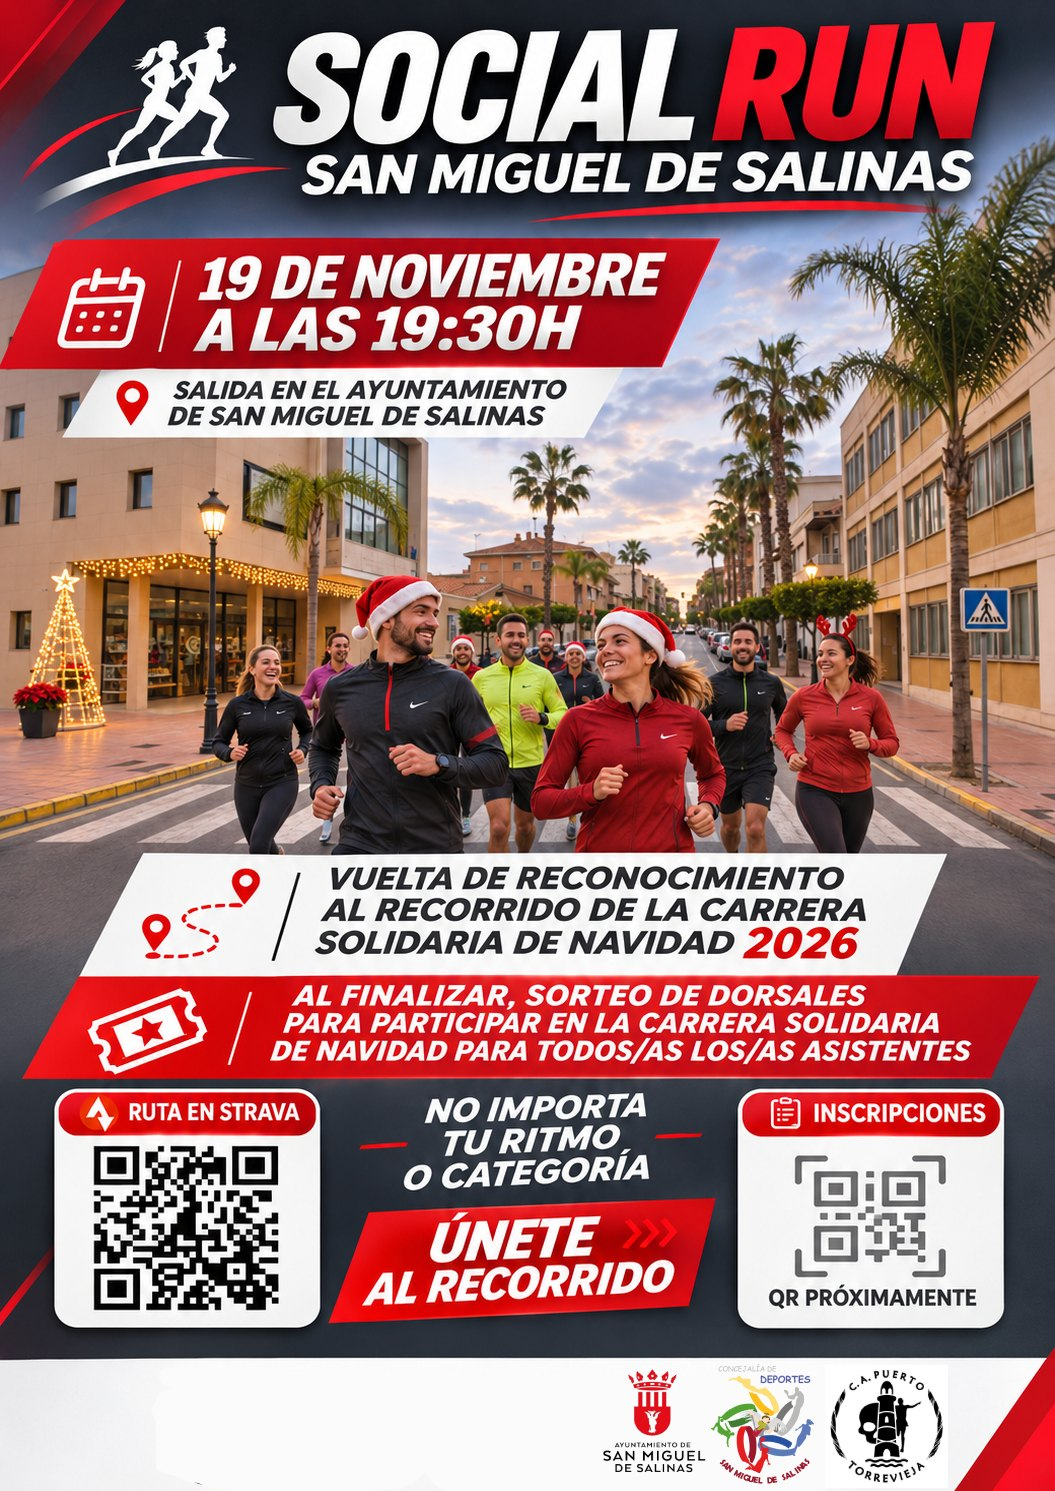
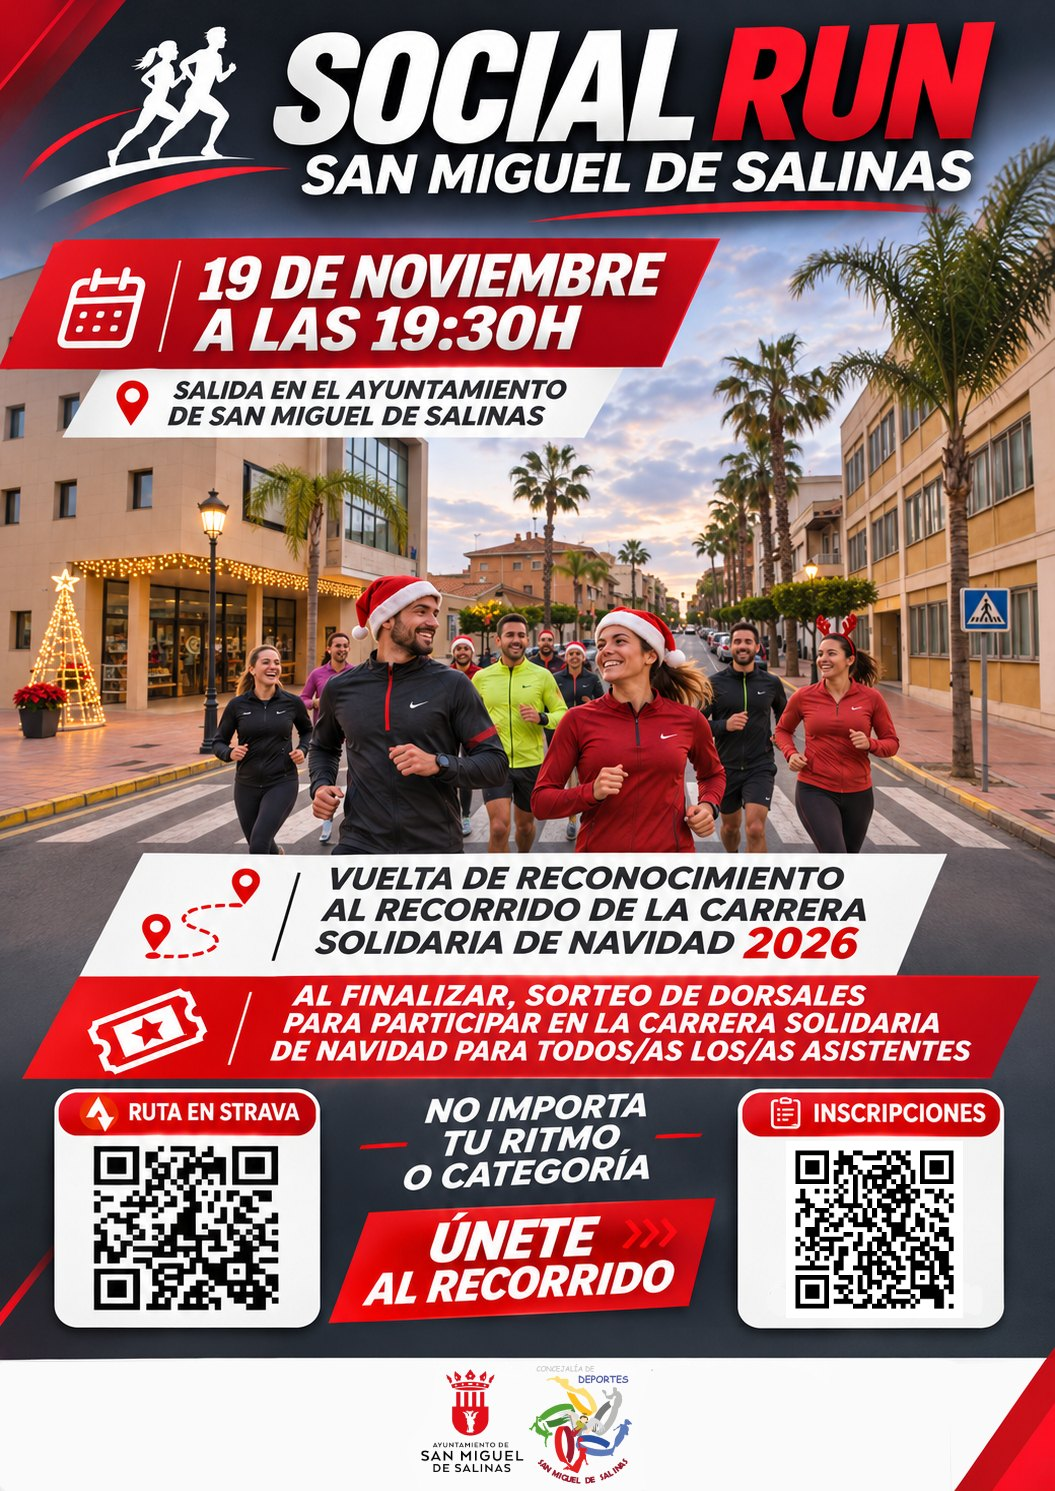
Add files via upload

Changed region(s): [[0.3943, 0.8947, 0.91, 1.0], [0.728, 0.7713, 0.9403, 0.8947]]

diff --git a/index.html b/index.html
@@ -263,6 +263,17 @@ details.rgpd p{margin:.5rem 0 0}
 .compartir{display:flex;flex-wrap:wrap;gap:1rem;margin-top:1.5rem}
 .btn-wa{background:#25D366;color:#0B3B1F;box-shadow:0 6px 0 #179247}
 
+/* Contacto */
+.contacto{background:var(--asfalto);padding:clamp(2.5rem,6vw,3.5rem) 0;border-top:1px solid var(--linea)}
+.contacto-in{display:grid;grid-template-columns:1fr auto;gap:1.5rem 3rem;align-items:center}
+.contacto-in > *{min-width:0}
+.contacto h2{font-size:clamp(2.2rem,5.5vw,3.4rem);margin-bottom:.5rem}
+.contacto p{margin:0;color:#D5D7E6;max-width:32em}
+.contacto-dato{display:flex;flex-direction:column;align-items:flex-start;gap:.3rem}
+.contacto-dato > span{color:var(--niebla);font-weight:600}
+.contacto-dato .tel{font-family:var(--display);font-style:italic;font-weight:800;font-size:clamp(2.2rem,6vw,3rem);line-height:1;text-decoration:none;margin-bottom:.8rem;font-variant-numeric:tabular-nums}
+@media (max-width:760px){.contacto-in{grid-template-columns:1fr}}
+
 /* Organizan */
 .org{background:#fff;color:var(--noche);padding:3rem 0}
 .org h2{font-family:var(--display);font-style:italic;font-weight:800;font-size:1.6rem;text-transform:uppercase;margin:0 0 1.6rem;text-align:center}
@@ -394,7 +405,7 @@ footer a{color:var(--nieve)}
       <p class="sec-intro">Una hora larga entre amigos, vecinos y gente que acabas de conocer.</p>
       <ol class="tiempo">
         <li><span class="h">19:15</span><span class="pt" aria-hidden="true"></span><h3>Llegada</h3><p>Nos vemos en la puerta del Ayuntamiento. Calentamos juntos y nos repartimos por ritmos.</p></li>
-        <li><span class="h">19:30</span><span class="pt" aria-hidden="true"></span><h3>Salida</h3><p>Salimos todos a la vez. Cada grupo con su ritmo, con gente del C.A. Puerto Torrevieja acompañando.</p></li>
+        <li><span class="h">19:30</span><span class="pt" aria-hidden="true"></span><h3>Salida</h3><p>Salimos todos a la vez y cada grupo va a su ritmo, siempre acompañado.</p></li>
         <li><span class="h">En ruta</span><span class="pt" aria-hidden="true"></span><h3>El recorrido</h3><p>Conocemos las calles por las que pasará la Carrera Solidaria de Navidad del 20 de diciembre.</p></li>
         <li><span class="h">Meta</span><span class="pt" aria-hidden="true"></span><h3>Sorteo</h3><p>Al terminar sorteamos 10 dorsales para la carrera o la marcha entre los inscritos que hayan participado.</p></li>
       </ol>
@@ -522,13 +533,26 @@ footer a{color:var(--nieve)}
     </div>
   </section>
 
+  <section class="contacto" aria-labelledby="contacto-t">
+    <div class="wrap contacto-in">
+      <div>
+        <h2 class="dsp" id="contacto-t">¿Tienes dudas?</h2>
+        <p>Escríbenos y te contamos todo lo que necesites sobre la Social Run.</p>
+      </div>
+      <div class="contacto-dato">
+        <span>Área de Deportes Municipal</span>
+        <a class="tel" href="tel:+34673501180">673 501 180</a>
+        <a class="btn btn-wa" href="https://wa.me/34673501180?text=Hola%2C%20quer%C3%ADa%20informaci%C3%B3n%20sobre%20la%20Social%20Run%20San%20Miguel%20de%20Salinas" target="_blank" rel="noopener"><svg aria-hidden="true"><use href="#i-wa"/></svg><span>Escribir por WhatsApp</span></a>
+      </div>
+    </div>
+  </section>
+
   <section class="org" aria-labelledby="org-t">
     <div class="wrap">
       <h2 id="org-t">Organizan</h2>
       <div class="logos">
         <figure><img src="assets/logo-ayuntamiento.png" alt="Ayuntamiento de San Miguel de Salinas"><figcaption>Ayuntamiento de San Miguel de Salinas</figcaption></figure>
         <figure><img src="assets/logo-deportes.png" alt="Concejalía de Deportes de San Miguel de Salinas"><figcaption>Concejalía de Deportes</figcaption></figure>
-        <figure><img src="assets/logo-ca-puerto-torrevieja.png" alt="Club de Atletismo Puerto Torrevieja"><figcaption>C.A. Puerto Torrevieja</figcaption></figure>
       </div>
     </div>
   </section>
@@ -537,6 +561,7 @@ footer a{color:var(--nieve)}
 <footer>
   <div class="wrap">
     <span>Social Run San Miguel de Salinas 2026 · Concejalía de Deportes</span>
+    <span>Más información: Área de Deportes Municipal · <a href="https://wa.me/34673501180" target="_blank" rel="noopener">673 501 180</a></span>
     <a href="https://carreramarchanavidad2026.netlify.app/" target="_blank" rel="noopener">Carrera y Marcha Solidaria de Navidad 2026</a>
   </div>
 </footer>
